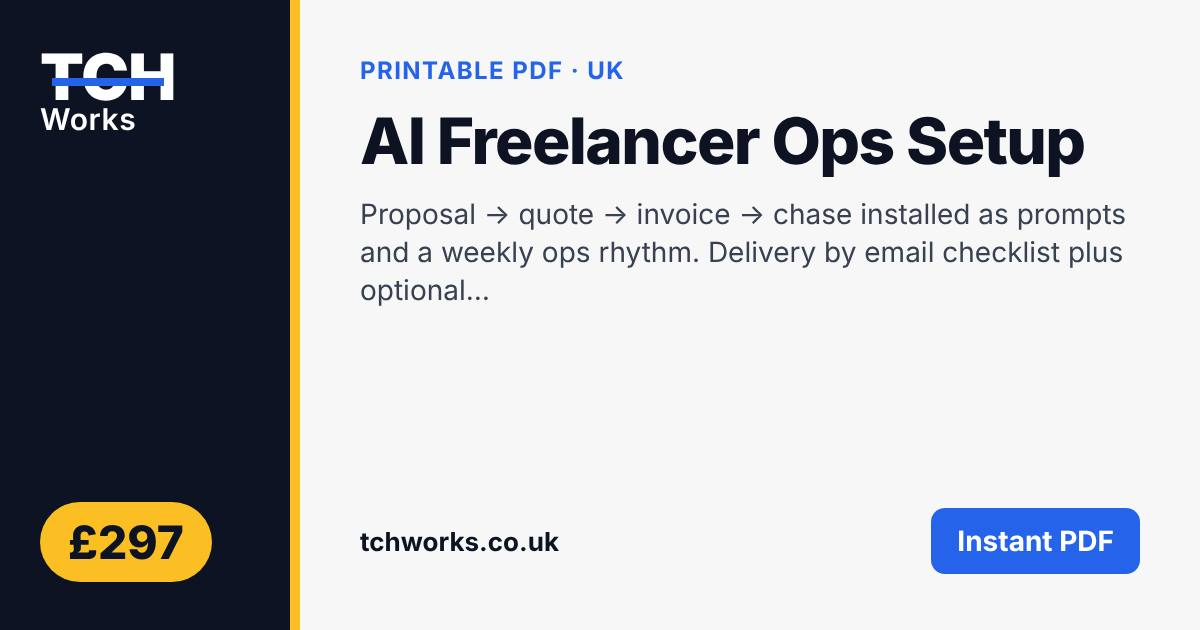
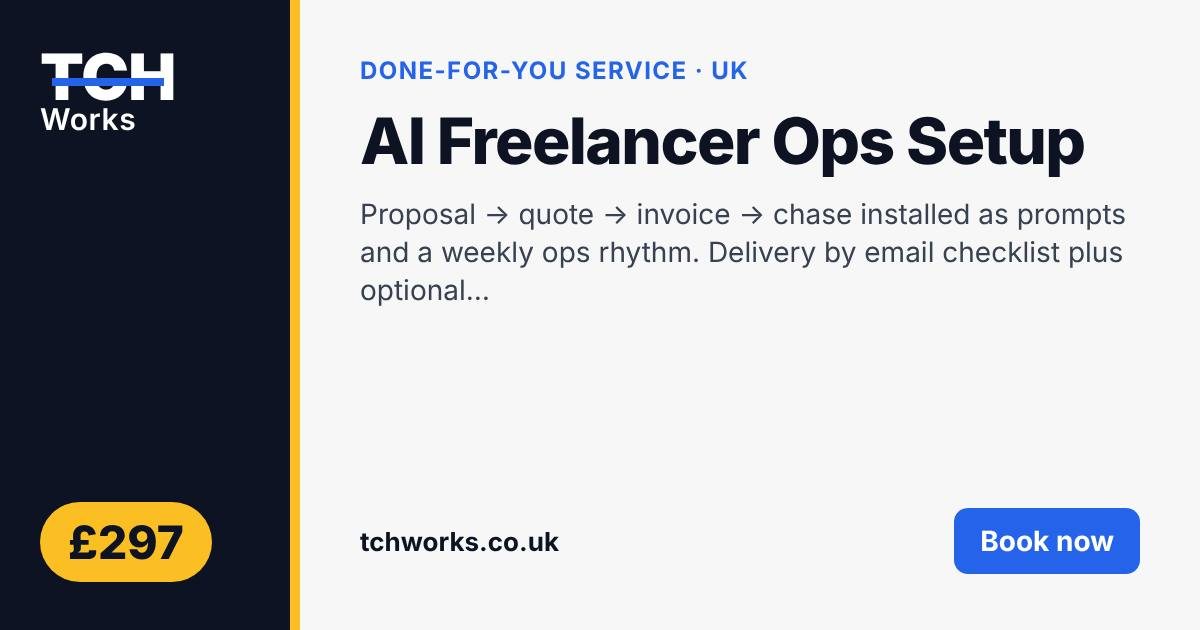
Share pictures: services say Book now; free downloads drop Stripe copy; declare Playwright
- £197+ services are labelled 'Done-for-you service' / 'Book now', not 'Instant PDF'
- free download pages no longer mention a Stripe receipt
- _tools/social/package.json + lockfile pin playwright 1.56.1; clear error if missing

Claude-Session: https://claude.ai/code/session_01DDptHQQ1XMJByttKaMA95T

Changed region(s): [[0.3083, 0.0905, 0.6167, 0.1508], [0.7708, 0.7841, 0.925, 0.9349]]

diff --git a/f/50baad32f6a737678f1cc1e232926673e998ae85d3ca78f438f7a8832a8e3f20/index.html b/f/50baad32f6a737678f1cc1e232926673e998ae85d3ca78f438f7a8832a8e3f20/index.html
@@ -11,14 +11,14 @@
 <body>
 <header class="site-header"><div class="wrap nav"><a class="brand" href="/" aria-label="TCH Works home"><span class="logo-stack"><span class="logo-tch">TCH<span class="bar" aria-hidden="true"></span></span><span class="logo-works">Works</span></span></a></div></header>
 <main class="section"><div class="wrap prose">
- <p class="kicker">Thank you</p>
+ <p class="kicker">Free download</p>
  <h1>This Week’s Meal Grid (free)</h1>
  <p class="lede">Your file is ready. Tap to download, then print on A4 or fill it in on screen.</p>
  <ul class="dl">
   <li><a href="./tch-free-this-weeks-meal-grid.pdf" download>tch-free-this-weeks-meal-grid.pdf<small>26 KB</small></a></li>
  </ul>
- <p>Bookmark this page if you want the file again later. Stripe also emails your receipt.</p>
- <p>Problem with the file? Reply to the Stripe receipt and we will put it right.</p>
+ <p>Bookmark this page if you want the file again later.</p>
+ <p>Problem with the file? Email hello@tch.works and we will put it right.</p>
  <p><a href="/">Back to the shop</a></p>
 </div></main>
 </body>

diff --git a/f/1e854c0dda4462ce40b6bb720a64f4b322062273ca1ea2535649b4647ca062d7/index.html b/f/1e854c0dda4462ce40b6bb720a64f4b322062273ca1ea2535649b4647ca062d7/index.html
@@ -11,14 +11,14 @@
 <body>
 <header class="site-header"><div class="wrap nav"><a class="brand" href="/" aria-label="TCH Works home"><span class="logo-stack"><span class="logo-tch">TCH<span class="bar" aria-hidden="true"></span></span><span class="logo-works">Works</span></span></a></div></header>
 <main class="section"><div class="wrap prose">
- <p class="kicker">Thank you</p>
+ <p class="kicker">Free download</p>
  <h1>Sunday Reset (free)</h1>
  <p class="lede">Your file is ready. Tap to download, then print on A4 or fill it in on screen.</p>
  <ul class="dl">
   <li><a href="./tch-free-sunday-reset.pdf" download>tch-free-sunday-reset.pdf<small>11 KB</small></a></li>
  </ul>
- <p>Bookmark this page if you want the file again later. Stripe also emails your receipt.</p>
- <p>Problem with the file? Reply to the Stripe receipt and we will put it right.</p>
+ <p>Bookmark this page if you want the file again later.</p>
+ <p>Problem with the file? Email hello@tch.works and we will put it right.</p>
  <p><a href="/">Back to the shop</a></p>
 </div></main>
 </body>
